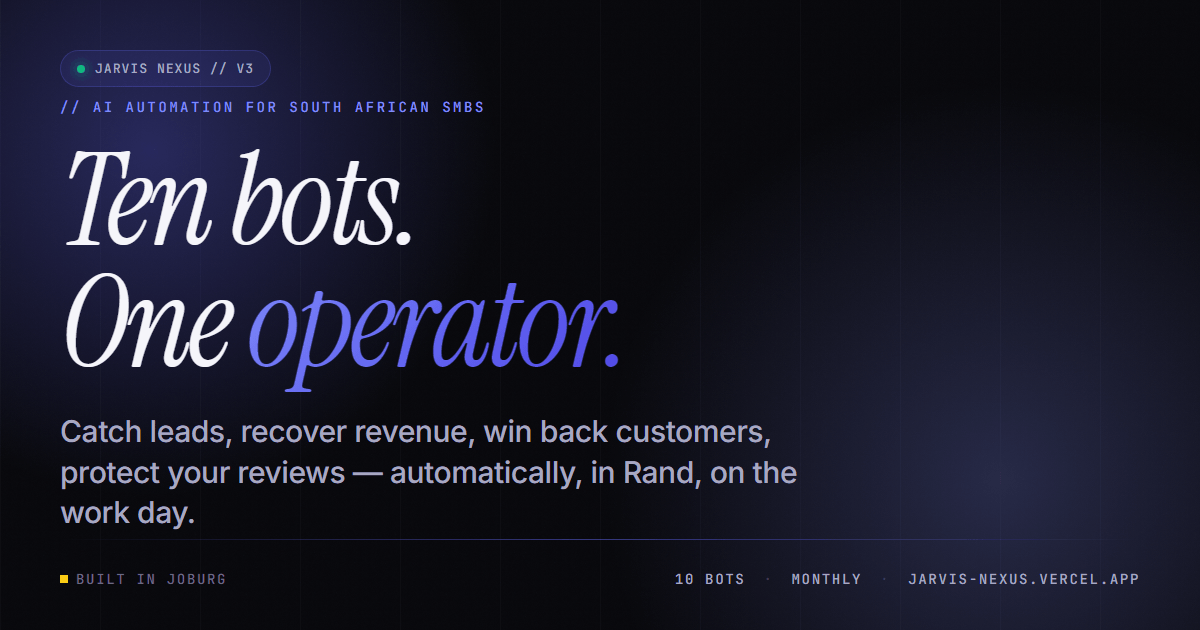
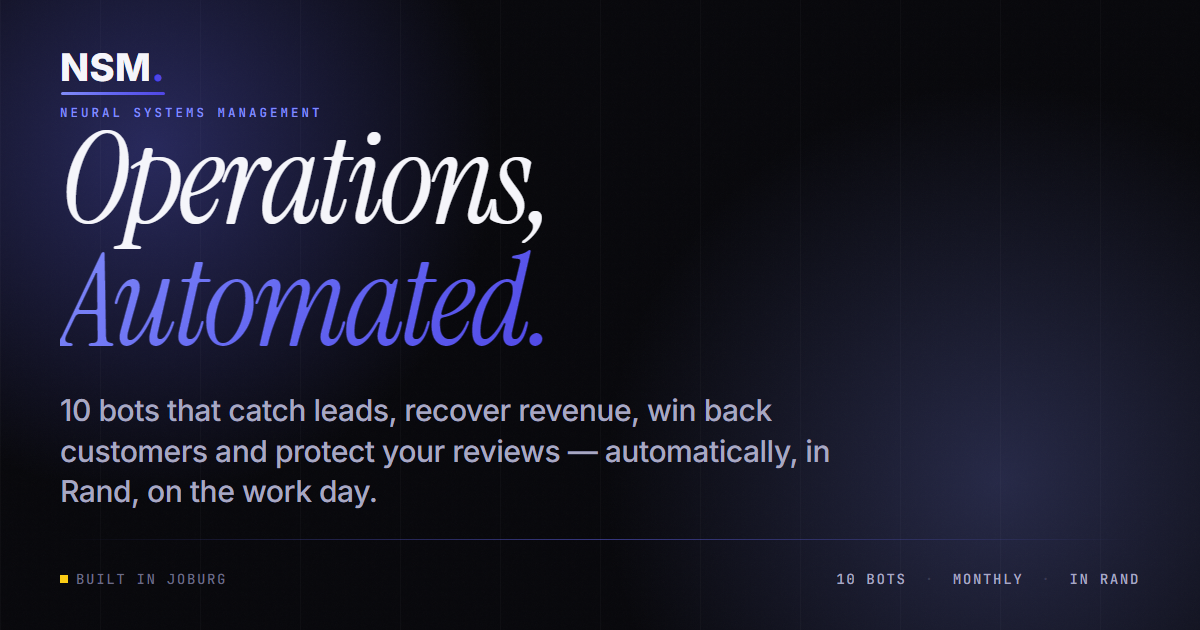
Add files via upload

Changed region(s): [[0.0308, 0.0603, 0.7092, 0.8444], [0.6475, 0.9048, 0.9558, 0.9349], [0.555, 0.9048, 0.6167, 0.9349]]

diff --git a/og-cover.html b/og-cover.html
@@ -61,29 +61,25 @@ html, body {
   pointer-events:none;
 }
 
-/* Top-left brand chip */
-.chip {
+/* Top-left brand lockup — Concept C signature accent */
+.brand-lockup {
   position:absolute;
-  top:50px; left:60px;
-  display:inline-flex;
-  align-items:center;
-  gap:10px;
-  padding:9px 16px;
-  background:rgba(99,102,241,0.10);
-  border:1px solid rgba(99,102,241,0.25);
-  border-radius:999px;
-  font-family:'JetBrains Mono', monospace;
-  font-size:13px;
-  font-weight:500;
-  letter-spacing:0.08em;
-  color:#a8a8c2;
-  text-transform:uppercase;
+  top:48px; left:60px;
+  display:flex; flex-direction:column; gap:9px;
 }
-.chip .dot {
-  width:8px; height:8px;
-  border-radius:50%;
-  background:#10b981;
-  box-shadow:0 0 12px #10b981;
+.bl-word {
+  position:relative; display:inline-block; align-self:flex-start;
+  font-weight:800; font-size:38px; color:#f5f5fa; letter-spacing:0.01em;
+  padding:0 13px 9px 0; line-height:1;
+}
+.bl-word .dot { color:#4f46e5; }
+.bl-word::after {
+  content:''; position:absolute; left:1px; right:13px; bottom:0; height:3px;
+  background:linear-gradient(90deg,#818cf8,#6366f1,#4f46e5); border-radius:2px;
+}
+.bl-sub {
+  font-family:'JetBrains Mono', monospace; font-size:12.5px; font-weight:600;
+  letter-spacing:0.24em; text-transform:uppercase; color:#818cf8;
 }
 
 /* Main content */
@@ -203,15 +199,14 @@ html, body {
   <div class="grid-lines"></div>
   <div class="grain"></div>
 
-  <div class="chip">
-    <span class="dot"></span>
-    <span>NSM // V3</span>
+  <div class="brand-lockup">
+    <span class="bl-word">NSM<span class="dot">.</span></span>
+    <span class="bl-sub">Neural Systems Management</span>
   </div>
 
   <div class="content">
-    <div class="eyebrow">// AI Automation for South African SMBs</div>
-    <h1 class="headline">Ten bots.<br>One <span class="grad">operator.</span></h1>
-    <p class="sub">Catch leads, recover revenue, win back customers, protect your reviews — automatically, in Rand, on the work day.</p>
+    <h1 class="headline">Operations,<br><span class="grad">Automated.</span></h1>
+    <p class="sub">10 bots that catch leads, recover revenue, win back customers and protect your reviews — automatically, in Rand, on the work day.</p>
   </div>
 
   <div class="divider"></div>
@@ -223,7 +218,7 @@ html, body {
       <span class="sep">·</span>
       <span>MONTHLY</span>
       <span class="sep">·</span>
-      <span>JARVIS-NEXUS.VERCEL.APP</span>
+      <span>IN RAND</span>
     </span>
   </div>
 </div>

diff --git a/manual.html b/manual.html
@@ -368,6 +368,7 @@ section { margin-bottom:80px; scroll-margin-top:32px; }
       <li><a href="#onboard">Setting up the bots for a new client (the real checklist)</a></li>
       <li><a href="#sell">How you sell this — pilots, then paid</a></li>
       <li><a href="#money">The money side (pricing, packs, what a sale looks like)</a></li>
+      <li><a href="#brand">Your brand — logo, colours, and the kit</a></li>
       <li><a href="#refs">Quick reference (URLs and things you forget)</a></li>
       <li><a href="#closing">A note from the bots to the founder</a></li>
     </ol>
@@ -671,8 +672,50 @@ section { margin-bottom:80px; scroll-margin-top:32px; }
   </section>
 
   <!-- ============ 9. REFERENCE ============ -->
-  <section id="refs">
+  <section id="brand">
     <div class="s-eyebrow">// Section 09</div>
+    <h2 class="s-title">Your brand — logo, colours, and the kit</h2>
+    <p class="s-sub">NSM stands for <strong>Neural Systems Management</strong>. Use the full name on first contact (homepage, email signatures, legal, business cards); use just <strong>NSM</strong> everywhere else. The tagline is <em>Operations, Automated.</em> — always with the capital A and the full stop.</p>
+
+    <p style="margin:28px 0 10px; font-size:15px;"><strong style="color:var(--text-hi);">The logo</strong></p>
+    <p style="color:var(--text-md); font-size:14px;">The logo <em>is</em> the NSM wordmark — with a gradient sweep underline that ends in the period from "Operations, Automated." There is <strong style="color:var(--text-hi);">no separate icon or square</strong>; the old rotated-diamond mark is retired — don't bring it back. On a browser tab or app icon it shrinks to just <span class="mono">N.</span> on an indigo tile.</p>
+
+    <p style="margin:28px 0 10px; font-size:15px;"><strong style="color:var(--text-hi);">Colours</strong></p>
+    <div style="display:flex; gap:16px; flex-wrap:wrap; margin:8px 0 8px;">
+      <span style="display:inline-flex; align-items:center; gap:8px;"><span style="width:18px; height:18px; border-radius:5px; background:#818cf8; display:inline-block;"></span><span class="mono" style="font-size:12px; color:var(--text-md);">#818cf8 glow</span></span>
+      <span style="display:inline-flex; align-items:center; gap:8px;"><span style="width:18px; height:18px; border-radius:5px; background:#6366f1; display:inline-block;"></span><span class="mono" style="font-size:12px; color:var(--text-md);">#6366f1 indigo</span></span>
+      <span style="display:inline-flex; align-items:center; gap:8px;"><span style="width:18px; height:18px; border-radius:5px; background:#4f46e5; display:inline-block;"></span><span class="mono" style="font-size:12px; color:var(--text-md);">#4f46e5 deep</span></span>
+      <span style="display:inline-flex; align-items:center; gap:8px;"><span style="width:18px; height:18px; border-radius:5px; background:#08080c; border:1px solid var(--border-subtle); display:inline-block;"></span><span class="mono" style="font-size:12px; color:var(--text-md);">#08080c warm-black</span></span>
+    </div>
+    <p style="color:var(--text-md); font-size:14px;">The indigo gradient (glow → indigo → deep) is the signature, on warm-black surfaces. Green / amber / red are for <em>status only</em> (good / warning / bad) — never decoration.</p>
+
+    <p style="margin:28px 0 10px; font-size:15px;"><strong style="color:var(--text-hi);">Fonts</strong></p>
+    <p style="color:var(--text-md); font-size:14px;"><strong style="color:var(--text-hi);">Inter</strong> — body, buttons, UI. <strong style="color:var(--text-hi);">Instrument Serif</strong> (italic) — headlines, hero words, big numbers. <strong style="color:var(--text-hi);">JetBrains Mono</strong> — labels, IDs, timestamps, the <span class="mono">// comment</span> markers.</p>
+
+    <p style="margin:28px 0 10px; font-size:15px;"><strong style="color:var(--text-hi);">The brand kit — where the files live</strong></p>
+    <div class="mono" style="margin:12px 0; padding:12px 14px; background:var(--surface-2,#14141d); border:1px solid var(--border-indigo); border-radius:var(--r-sm,8px); color:var(--text-hi); font-size:13px;">portal/_brand/</div>
+    <p style="color:var(--text-md); font-size:14px;">These are your source files for when you need to hand a logo to a printer, a directory, or a social profile. The live website doesn't read them (its logo is baked into the pages), so nothing breaks if you move the folder.</p>
+    <ul style="margin:10px 0 0; padding-left:20px; color:var(--text-md); font-size:14px; line-height:1.75;">
+      <li><span class="mono">nsm-logo-c.svg</span> — master logo, for dark backgrounds.</li>
+      <li><span class="mono">nsm-logo-c-light.svg</span> — for white / light backgrounds (dark ink).</li>
+      <li><span class="mono">nsm-logo-c-mono.svg</span> — single colour, for print / embroidery / stamps.</li>
+      <li><span class="mono">nsm-mark.svg</span> — compact wordmark, no subtext, for tight spaces.</li>
+      <li><span class="mono">nsm-favicon.svg</span> + <span class="mono">nsm-favicon-*.png</span> — the "N." icon for browser tabs, app stores, social avatars (1024 biggest → 32 smallest).</li>
+      <li><span class="mono">nsm-business-card.html</span> — print-ready card. Open in Chrome → Print → Save as PDF → hand to a printer.</li>
+      <li><span class="mono">preview.html</span> — shows the 3 original concepts with C chosen. Reference only.</li>
+    </ul>
+
+    <div class="callout">
+      <strong style="color:var(--text-hi);">Brand golden rules:</strong>
+      <br>· Never recolour the logo — the indigo gradient is fixed. The only single-colour version is <span class="mono">nsm-logo-c-mono.svg</span>.
+      <br>· On light backgrounds use the <span class="mono">-light</span> file, never the dark master.
+      <br>· The full stop after NSM is part of the logo — it ties to "Automated." Keep it.
+      <br>· The picture that appears when you paste a link (WhatsApp, LinkedIn) is <span class="mono">portal/og-cover.png</span> — it's rendered from <span class="mono">og-cover.html</span>. If the brand ever changes, update the HTML and re-screenshot it at 1200×630.
+    </div>
+  </section>
+
+  <section id="refs">
+    <div class="s-eyebrow">// Section 10</div>
     <h2 class="s-title">Quick reference</h2>
     <p class="s-sub">The URLs and identifiers you'll need every now and then. Save this page.</p>
 
@@ -714,7 +757,7 @@ section { margin-bottom:80px; scroll-margin-top:32px; }
 
   <!-- ============ 10. CLOSING ============ -->
   <section id="closing">
-    <div class="s-eyebrow">// Section 10</div>
+    <div class="s-eyebrow">// Section 11</div>
     <h2 class="s-title">A note from the bots to the founder</h2>
     <div class="s-body">
       <p>You spent months heads-down building this. It's normal to look at it now and feel disoriented — that's just what it feels like to ship something bigger than you can hold in your head at once.</p>